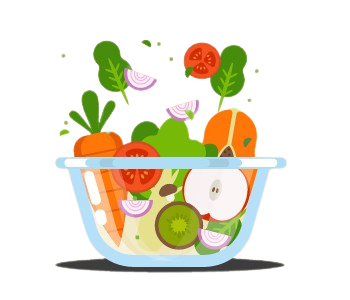
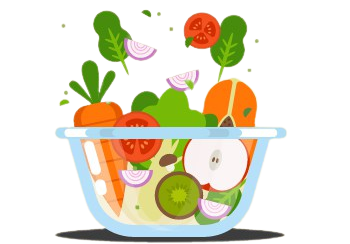
fixed the size

diff --git a/index.html b/index.html
@@ -88,11 +88,11 @@
         <a href="#" class="btn">shop now</a>
       </div>
     </section>
-    <section class="fetures" id="features">
+    <section class="features" id="features">
       <h1 class="heading">our <span>features</span></h1>
       <div class="box-container">
         <div class="box">
-          <img src="images/feature-1.png" alt="" />
+          <img src="images/feature-1.png" alt="" style="width: 35rem;"/>
           <h3>fresh and organic</h3>
           <p>
             Lorem ipsum, dolor sit amet consectetur adipisicing elit. Enim ea
@@ -103,7 +103,7 @@
           <a href="#" class="btn">read more</a>
         </div>
         <div class="box">
-          <img src="images/feature-2.webp" alt="" />
+          <img src="images/feature-2.png" alt="" style="width:29rem;">
           <h3>free delivery</h3>
           <p>
             Lorem ipsum, dolor sit amet consectetur adipisicing elit. Enim ea

diff --git a/style.css b/style.css
@@ -320,6 +320,13 @@ section{
     line-height: 1.8rem;
 }
 .features .box-container{
-    display: grid;
-    grid-template-columns: repeat(auto-fit,minmax(30rem,1fr))
+    display: 
+    flex;
+    grid-template-columns: repeat(auto-fit,minmax(30rem,1fr));
+    gap:1.5rem;
+    align-items: center;
+}
+.features .box-container img{
+    display: flex;
+    align-items: center;
 }
